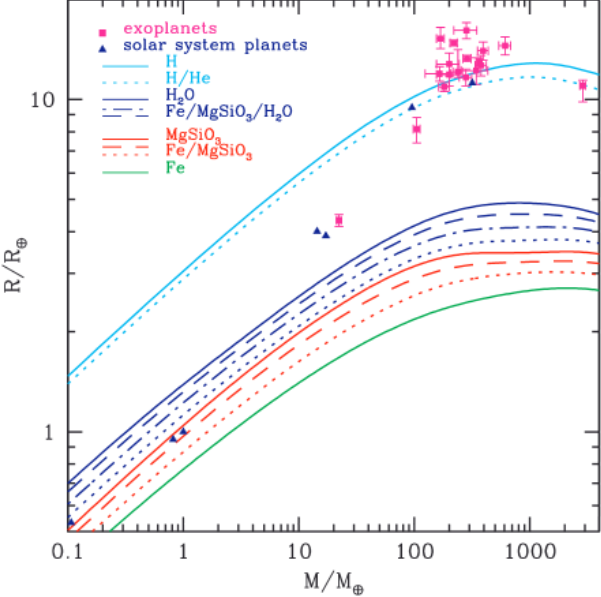
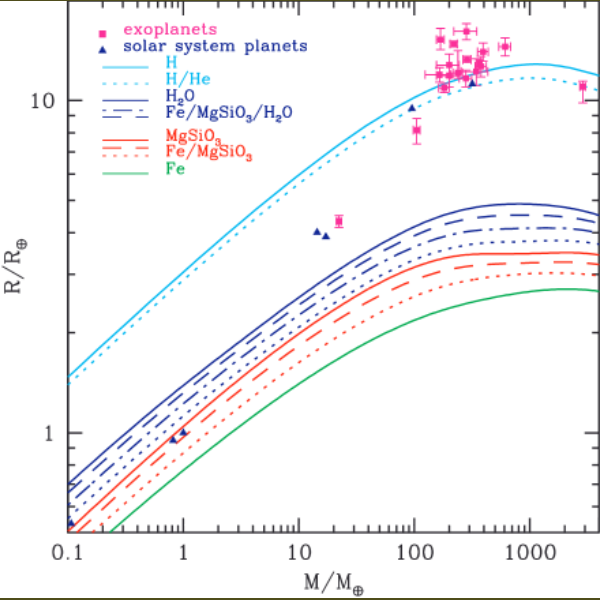
Planet * Ajustada la imagen graph a 600x600 px. * Eliminado el frame y el evento QUIT porque se trata de una ventana aparte. * Las lineas ya no se desplazan por fuera del recuadro, y los textos que muestran los valores actuales no muestran números si las el mouse está fuera del cuadro. * Añadido el 

diff --git a/planet/graph.py b/planet/graph.py
@@ -1,6 +1,6 @@
 from pygame import display as pantalla, quit as pyquit
 from pygame import K_ESCAPE, draw, font, Rect, image, mouse, event
-from pygame import KEYDOWN, QUIT, K_LCTRL, K_LSHIFT, MOUSEBUTTONDOWN, KEYUP, K_RETURN
+from pygame import KEYDOWN, K_LCTRL, K_LSHIFT, MOUSEBUTTONDOWN, KEYUP, K_RETURN, NOFRAME
 from sys import exit
 import bisect
 import os
@@ -8,47 +8,48 @@ import os
 font.init()
 graph = image.load('graph.png')
 fuente = font.SysFont('verdana', 16)
-rect = Rect(67, 1, 601 - 72, 597 - 67)
 mass_keys = [(i + 1) / 10 for i in range(1, 9)] + [i * 1000 for i in range(1, 9)] + [
     i for i in range(1, 10)] + [i * 10 for i in range(1, 10)] + [i * 100 for i in range(1, 10)]
 mass_keys.sort()
 radius_keys = [i / 10 for i in range(2, 10, 2)] + [i for i in range(1, 20)]
+negro, gris, cian = (0, 0, 0), (125, 125, 125), (0, 125, 255)
 
-xx, a = 0, 0
+x, a = 0, 0
 exes = []
 for j in range(5):
-    for xx in [35, 55, 70, 81, 90, 98, 105, 110, 115]:
-        xx += a
+    for x in [33, 53, 68, 79, 88, 95, 102, 108, 114]:
+        x += a
         if j == 1:
-            xx += j
+            x += 1
         elif j == 2:
-            xx += 1
-        exes.append(xx)
-    a = xx
+            x += 2
+        elif j == 3:
+            x += 1
+        elif j == 4:
+            x += 2
+        exes.append(x)
+    a = x
 exes.sort()
 yes = [26, 48, 68, 85, 100, 200, 259, 300, 333, 359, 381, 400, 417, 433]
 
 
 def graph_loop():
+    w, h = 606, 606
     os.environ['SDL_VIDEO_CENTERED'] = "{!s},{!s}".format(0, 0)
-    fondo = pantalla.set_mode((601, 597))
-
+    pantalla.set_mode((w, h), NOFRAME)
+    rect = Rect(72, 3, w - 78, h - 74)
     move_x, move_y = True, True
     lockx, locky = False, False
     mass_value = 0
     radius_value = 0
     while True:
         for e in event.get():
-
-            if e.type == QUIT:
-                pyquit()
-                exit()
-            elif e.type == KEYDOWN:
+            if e.type == KEYDOWN:
                 if e.key == K_ESCAPE:
                     pyquit()
                     exit()
 
-                elif e.key == K_LSHIFT:
+                if e.key == K_LSHIFT:
                     move_x = False
 
                 elif e.key == K_LCTRL:
@@ -78,14 +79,14 @@ def graph_loop():
                         lockx, locky = False, False
                         move_x, move_y = True, True
 
-        x, y = mouse.get_pos()
+        mouse_x, mouse_y = mouse.get_pos()
         if move_x and not lockx:
-            line_x = x
+            line_x = mouse_x
         if move_y and not locky:
-            line_y = y
+            line_y = mouse_y
 
-        dx = x - rect.left
-        dy = abs(y - rect.bottom)
+        dx = mouse_x - rect.left
+        dy = abs(mouse_y - rect.bottom)
 
         if move_x:
             if dx in exes:
@@ -101,16 +102,25 @@ def graph_loop():
                 idy = bisect.bisect(yes, dy) - 1
             radius_value = dy * radius_keys[idy] / yes[idy]
 
-        mass_text = 'Mass:' + str(round(mass_value, 3))
-        radius_text = 'Radius:' + str(round(radius_value, 3))
-        render1 = fuente.render(mass_text, 1, (0, 0, 0), (255, 255, 255))
-        render2 = fuente.render(radius_text, 1, (0, 0, 0), (255, 255, 255))
+        pantalla.get_surface().fill(gris)
+        area = pantalla.get_surface().blit(graph, (3, 3))
+        if rect.collidepoint(line_x, line_y):
+            draw.line(pantalla.get_surface(), cian, (line_x, rect.top + 1), (line_x, rect.bottom), 2)
+            mass_text = 'Mass:' + str(round(mass_value, 3))
+        else:
+            mass_text = 'Mass:'
 
-        fondo.blit(graph, (0, 0))
+        if rect.collidepoint(rect.left, line_y):
+            draw.line(pantalla.get_surface(), cian, (rect.left, line_y), (rect.right, line_y), 2)
+            radius_text = 'Radius:' + str(round(radius_value, 3))
+        else:
+            radius_text = 'Radius:'
 
-        draw.line(fondo, (0, 125, 255), (line_x, rect.top), (line_x, rect.bottom), 2)
-        draw.line(fondo, (0, 125, 255), (rect.left, line_y), (rect.right, line_y), 2)
+        pantalla.get_surface().blit(fuente.render(mass_text, 1, negro), (area.left, area.bottom - 22))
+        pantalla.get_surface().blit(fuente.render(radius_text, 1, negro), (area.left + 153, area.bottom - 22))
 
-        fondo.blit(render1, (0, 579 - 10))
-        fondo.blit(render2, (150, 579 - 10))
         pantalla.flip()
+
+
+if __name__ == '__main__':
+    graph_loop()
